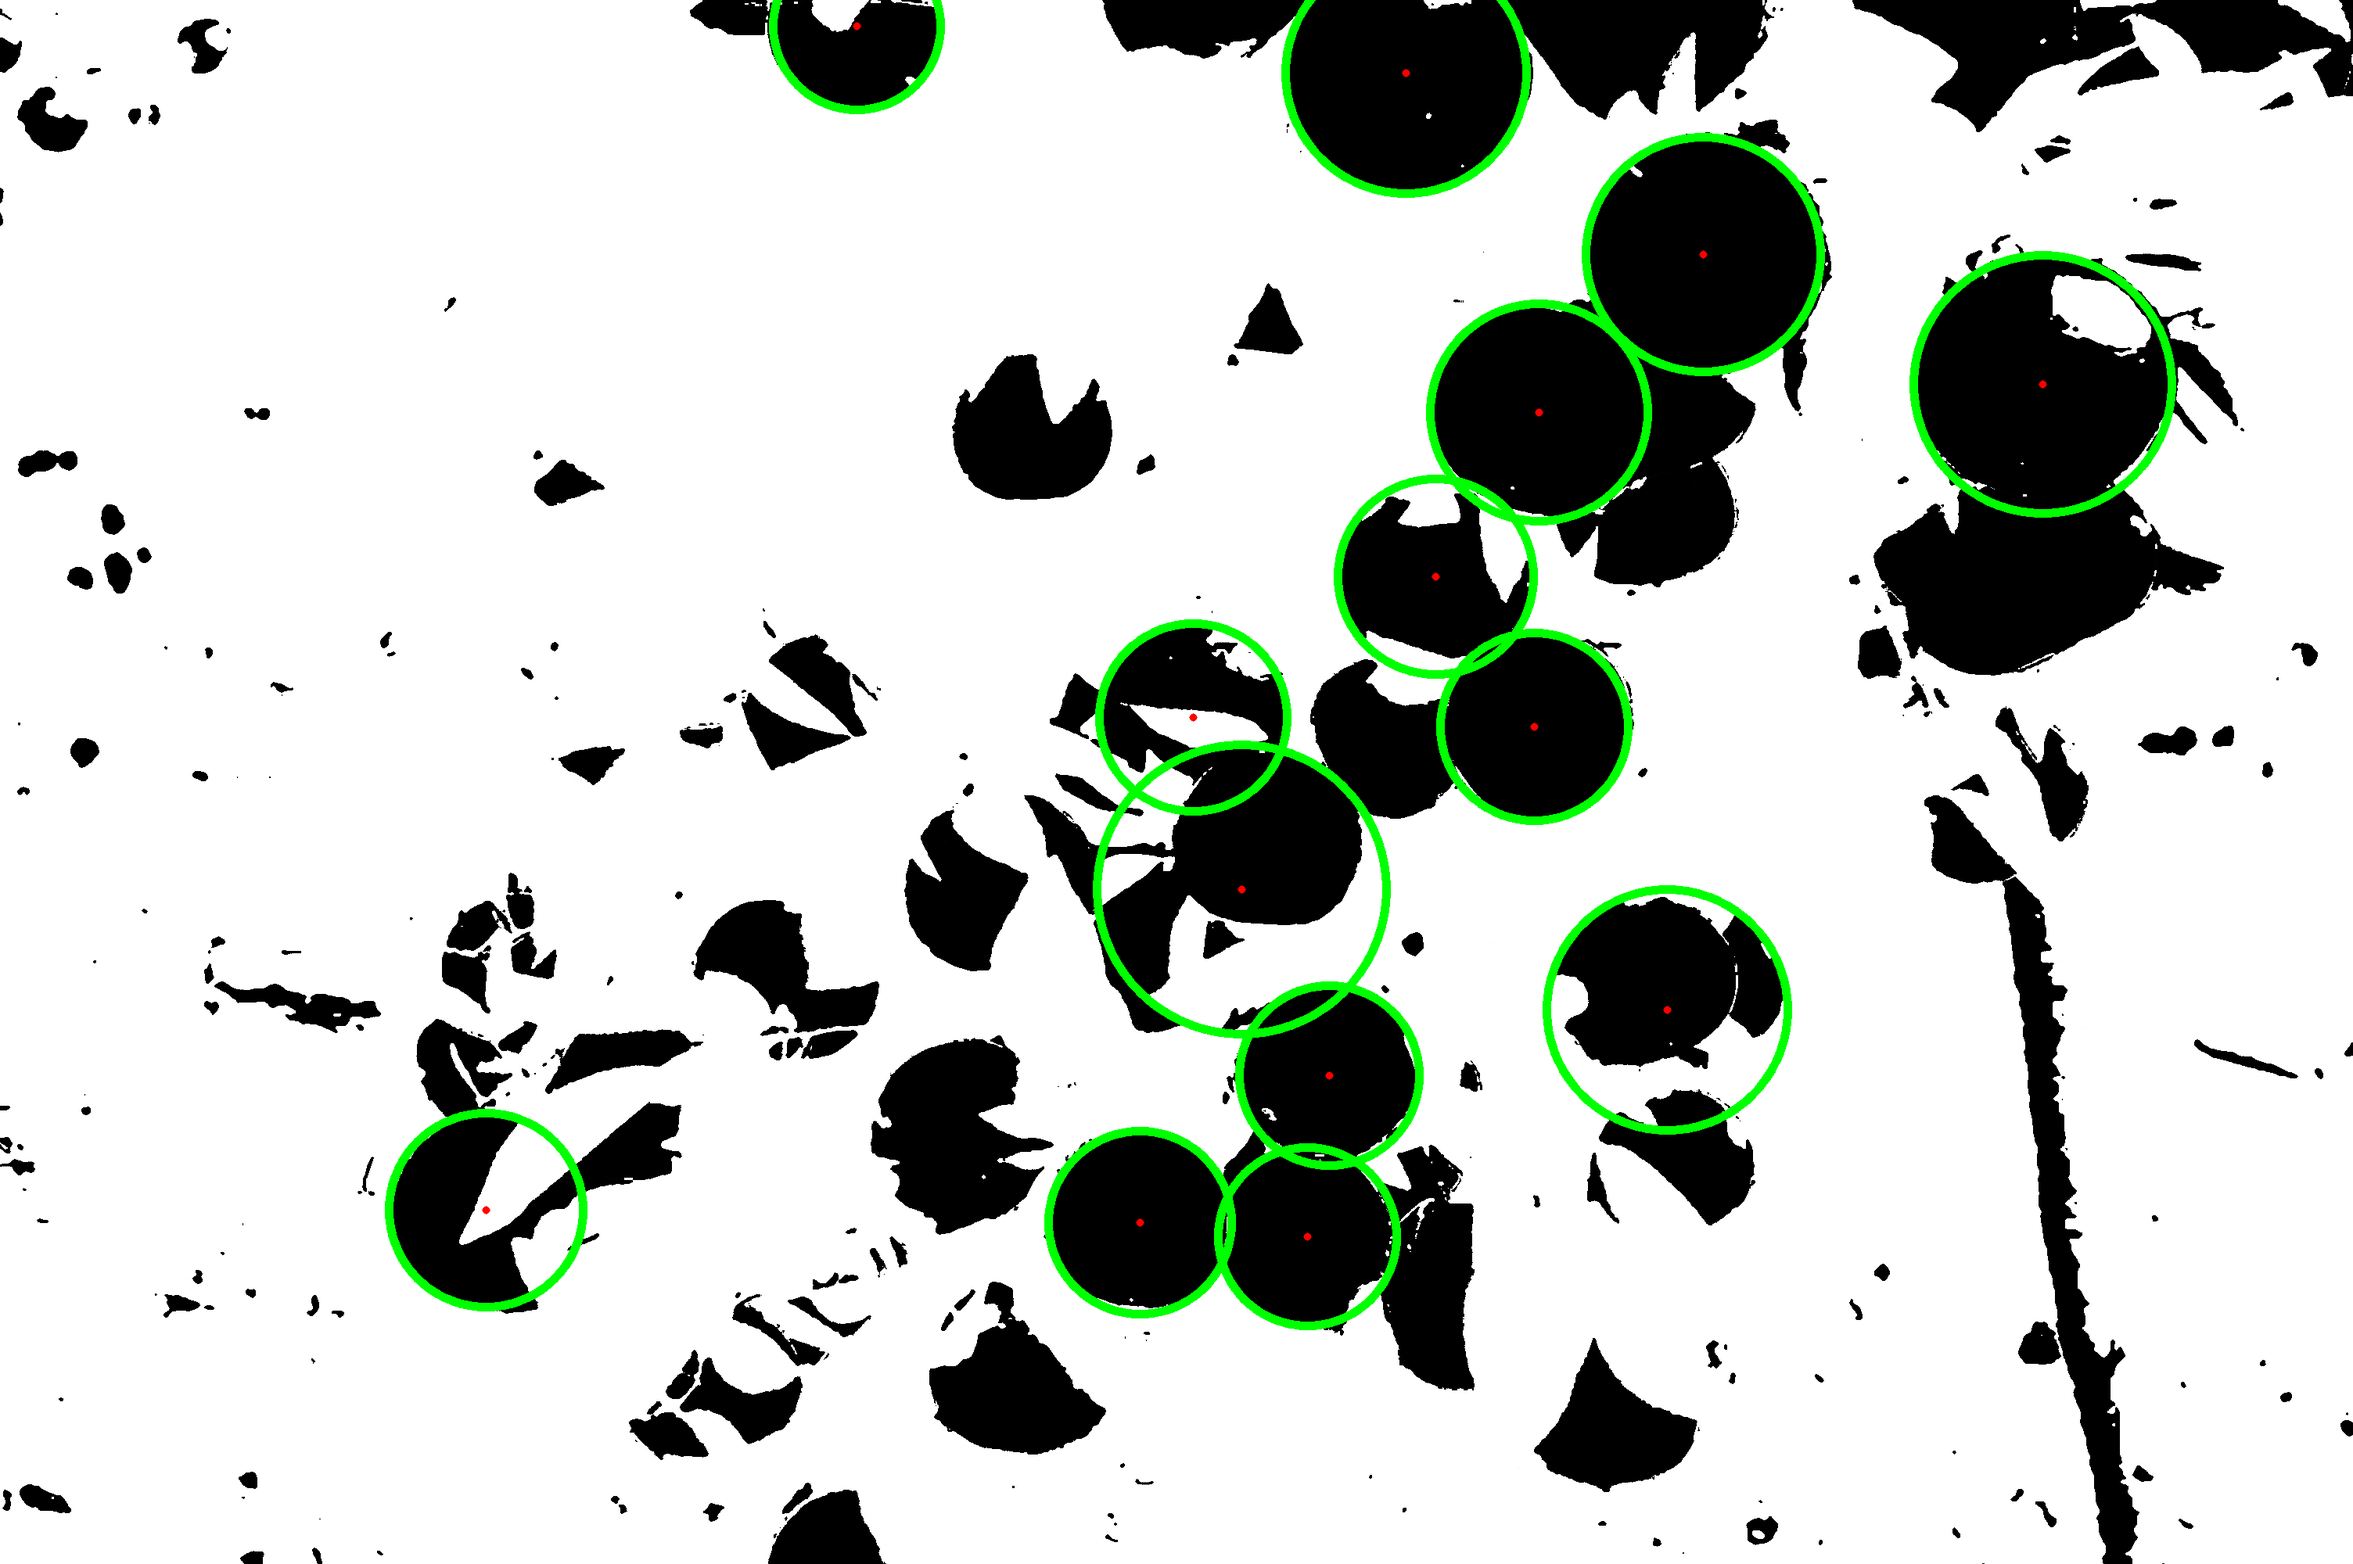
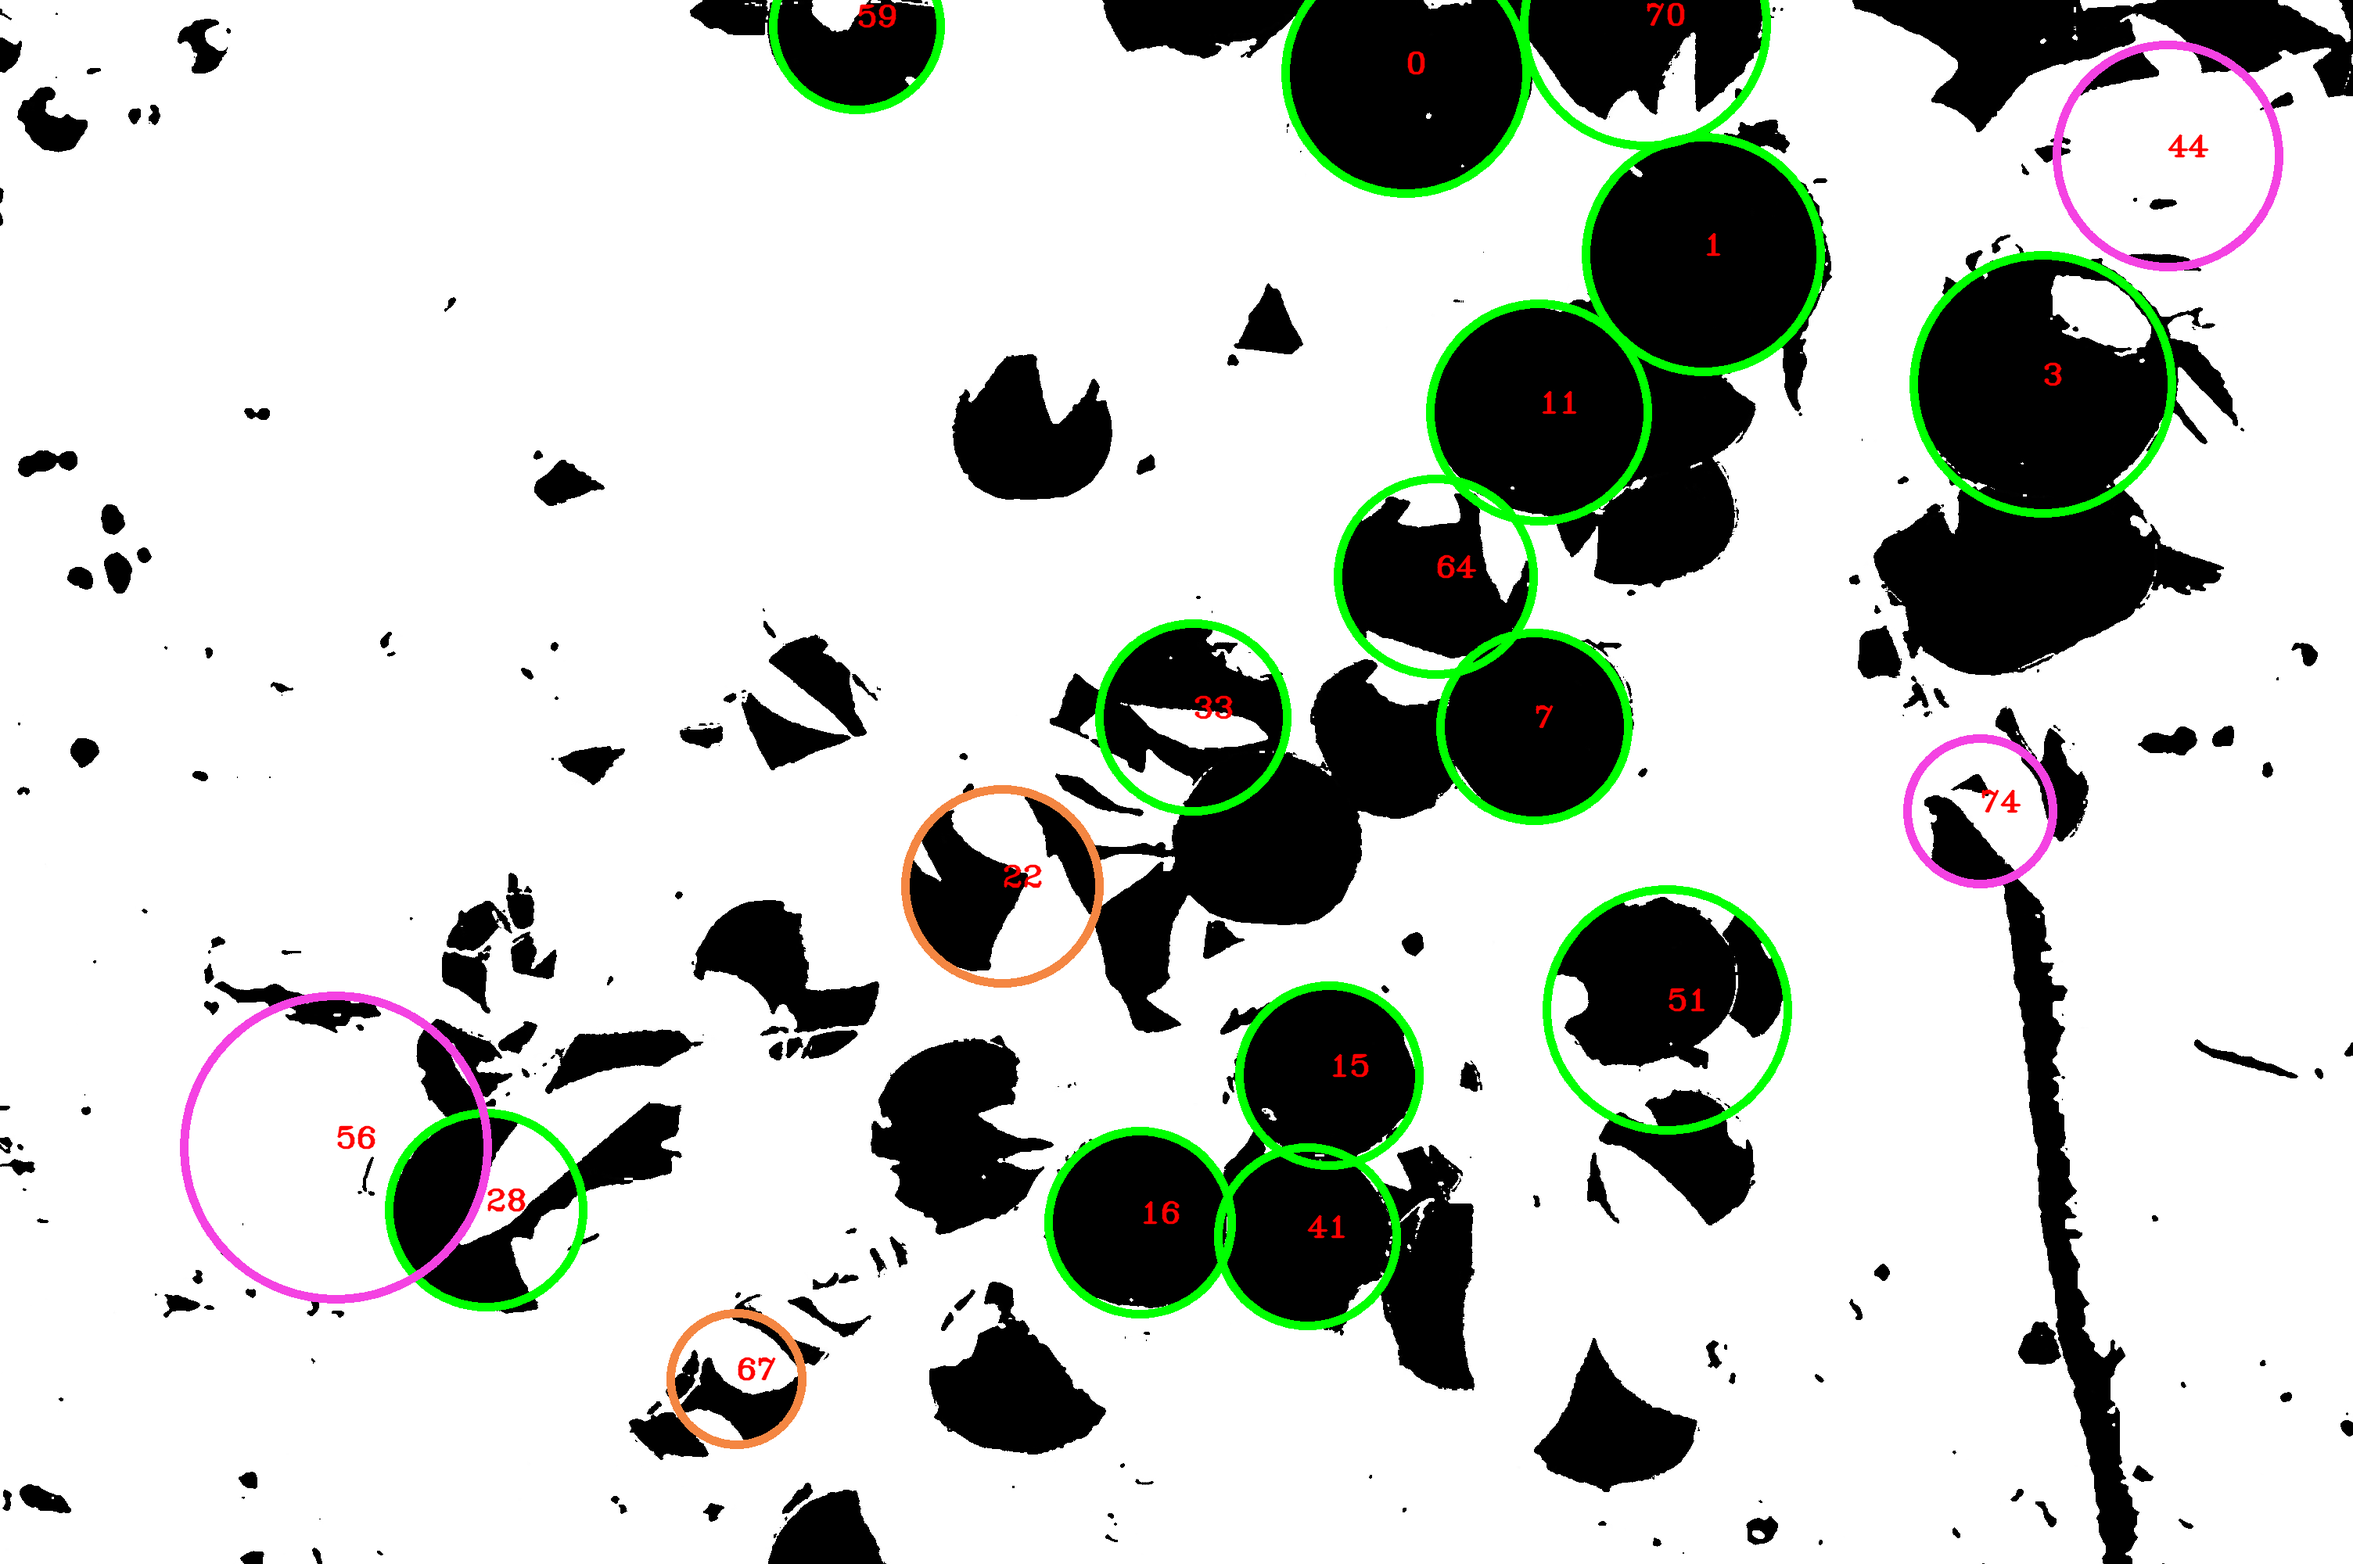
made it even bettergit add .

diff --git a/circles.py b/circles.py
@@ -17,6 +17,8 @@ import numpy as np
 def circleCount(fname):
 
 	img = cv2.imread("masks/" + fname,0)
+	color = cv2.imread("images/citrus1.jpg",1)
+
 	#kernel = np.ones((10,10),np.uint8)
 
 	#img = cv2.morphologyEx(img, cv2.MORPH_OPEN, kernel)
@@ -33,33 +35,83 @@ def circleCount(fname):
 
 
 	count = 0
+	num = 0
+	averageR = 0
 	for i in circles[0,:]:
 
- 		if  i[2] < 500:
+
+ 		if  (averageR == 0 and i[2] < 450) or (averageR != 0 and i[2] <= averageR*1.5 and  i[2] >= averageR*0.5):
 
 			mask = np.zeros(shape=(img.shape[0], img.shape[1]))
 			cv2.circle(mask,(i[0],i[1]),i[2],255, -1)
 			cv2.imwrite("mask.png", mask)
-			vals = countWhite(mask, img, (i[0],i[1]),i[2])
+			vals = countWhite(mask, img, (i[0],i[1]),i[2], num)
 
-			if vals[1] >  vals[0] / 2:
+			ratio = int(vals[1] / float(vals[0])*100)
+
+			if ratio >= 50:
 				count += 1
+
+
+
+				if averageR == 0:
+					averageR = i[2]
+				else:
+					if i[2] <= averageR*1.5 and  i[2] >= averageR*0.5:
+						averageR = (averageR + i[2]) / 2.0
+					else:
+						print("Circcle that is > 50% is either too big or too small");
+						cv2.circle(cimg,(i[0],i[1]),i[2],(226, 66, 244),10)
+						# draw the center of the circle
+						cv2.putText(cimg,str(num),(i[0],i[1]), cv2.FONT_HERSHEY_COMPLEX_SMALL, 2,(0,0,255),2,cv2.LINE_AA)
+						continue
+
 				# draw the outer circle
 				cv2.circle(cimg,(i[0],i[1]),i[2],(0,255,0),10)
 			    # draw the center of the circle
+				#cv2.circle(cimg,(i[0],i[1]),2,(0,0,255),5)
+				cv2.putText(cimg,str(num),(i[0],i[1]), cv2.FONT_HERSHEY_COMPLEX_SMALL , 2,(0,0,255),2,cv2.LINE_AA)
 
-				cv2.circle(cimg,(i[0],i[1]),2,(0,0,255),5)
+				cv2.circle(color,(i[0],i[1]),i[2],(0,255,0),10)
+			    # draw the center of the circle
+				cv2.circle(color,(i[0],i[1]),2,(0,0,255),5)
 
+			elif ratio >= 30:
+
+				print(ratio)
+				if i[2] <= averageR*1.2 and  i[2] >= averageR*0.2:
+					cv2.circle(cimg,(i[0],i[1]),i[2],(66, 134, 244),10)
+
+					cv2.circle(color,(i[0],i[1]),i[2],(66, 134, 244),10)
+				    # draw the center of the circle
+					cv2.circle(color,(i[0],i[1]),2,(0,0,255),5)
+
+				else:
+					cv2.circle(cimg,(i[0],i[1]),i[2],(0, 8, 255),10)
+
+				# draw the center of the circle
+				cv2.putText(cimg,str(num),(i[0],i[1]), cv2.FONT_HERSHEY_COMPLEX_SMALL, 2,(0,0,255),2,cv2.LINE_AA)
+			else:
+
+				print(ratio)
+				cv2.circle(cimg,(i[0],i[1]),i[2],(226, 66, 244),10)
+				# draw the center of the circle
+				cv2.putText(cimg,str(num),(i[0],i[1]), cv2.FONT_HERSHEY_COMPLEX_SMALL, 2,(0,0,255),2,cv2.LINE_AA)
+
+
+		num +=1
 
 
 	print(count)
 	cv2.imwrite("final.png", cimg)
+	cv2.imwrite("out.png", color)
 
 
-def countWhite(mask, img, center, radius):
+def countWhite(mask, img, center, radius, index):
 
 	numTotal = int(3.14 * radius**2)
 	numWhite = 0
+	numOutside = numTotal
 
 
 	lowerbound_out = max(int(center[1]) - radius, 0)
@@ -74,9 +126,18 @@ def countWhite(mask, img, center, radius):
 			if (mask[k,i] == 255 and img[k,i] == 0):
 				numWhite += 1
 
+			if (mask[k,i] == 255):
+				numOutside -= 1
 
 
-	print(numTotal, " ", numWhite)
+
+	if (numOutside / float(numTotal)*100) > 40:
+		print("too much outside of img: ", (numOutside / float(numTotal)*100))
+
+	else:
+		numWhite += numOutside
+
+	print("index:", index, numTotal, numWhite)
 
 	return (numTotal, numWhite)
 
